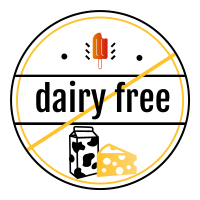
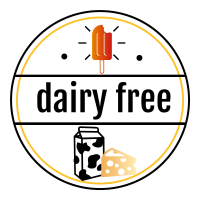
replaced two images and changed the favorite recipe image rendering

Changed region(s): [[0.12, 0.27, 0.9, 0.9], [0.39, 0.12, 0.63, 0.39], [0.57, 0.12, 0.6, 0.15]]

diff --git a/src/components/RecipeDetail.js b/src/components/RecipeDetail.js
@@ -3,6 +3,14 @@ import { connect } from "react-redux";
 import { fetchingUserClickedRecipe, favoritingRecipe, unfavoritingUserRecipe } from "../redux/actions";
 import { OverlayTrigger, Button, Tooltip } from "react-bootstrap";
 import { AiOutlineHeart, AiFillHeart } from 'react-icons/ai'
+import vegetarian from '../assets/images/vegetarian.png'
+import nonVegetarian from '../assets/images/nonVegetarian.png'
+import vegan from '../assets/images/vegan.png'
+import nonVegan from '../assets/images/nonVegan.png'
+import dairyFree from '../assets/images/dairyFree.png'
+import glutenFree from '../assets/images/glutenFree.png'
+// import lowFodmap from '../assets/images/lowFodmap.png'
+
 
 class RecipeDetail extends React.Component {
   componentDidMount() {
@@ -17,7 +25,6 @@ class RecipeDetail extends React.Component {
       this.props.favoriteRecipe(this.props.clickedRecipe[0], this.props.currentUser)
     } else {
       event.target.classList.replace("btn-danger", "btn-success")
-      debugger
       event.target.innerText = "Favorite Me <3" 
       this.props.unfavoriteRecipe(this.props.clickedRecipe[0], this.props.currentUser)
     }
@@ -33,7 +40,7 @@ class RecipeDetail extends React.Component {
 
 
   render() {
-    // debugger
+   // debugger
     // let {vegetarian, vegan, glutenFree, dairyFree, weightWatcherSmartPoints, lowFodmap, preparationMinutes, cookingMinutes, sourceUrl, spoonacularSourceUrl, spoonacularScore, creditsText, sourceName, title, servings, readyInMinutes, image, summary, instructions } = this.props.clickedRecipe[0]
     return (
       <div className="container card mx-auto">
@@ -64,13 +71,13 @@ class RecipeDetail extends React.Component {
               {this.props.clickedRecipe[0].preparationMinutes}
               <p>Cooking Minutes: {this.props.clickedRecipe[0].cookingMinutes}</p>
             </div>
-            // wite func that set innerHTML to this div
-            <div>{this.props.clickedRecipe[0].summary}</div>{" "}
-            <div> vegetarian ? {this.props.clickedRecipe[0].vegetarian ? "true" : "false"} </div>
-            <div> vegan ? {this.props.clickedRecipe[0].vegan} </div>
-            <div> glutenFree ? {this.props.clickedRecipe[0].glutenFree} </div>
-            <div> dairyFree ? {this.props.clickedRecipe[0].dairyFree} </div>
-            <div> lowFodmap ? {this.props.clickedRecipe[0].lowFodmap} </div>
+
+            <div dangerouslySetInnerHTML={{ __html: this.props.clickedRecipe[0].summary }}></div>
+            <div> vegetarian ? {this.props.clickedRecipe[0].vegetarian ? <img src={vegetarian} /> : <img src={nonVegetarian} />} </div>
+            <div> vegan ? {this.props.clickedRecipe[0].vegan ? <img src={vegan} /> : <img src={nonVegan} />} </div>
+            <div> glutenFree ? {this.props.clickedRecipe[0].glutenFree ? <img src={glutenFree} /> : null} </div>
+            <div> dairyFree ? {this.props.clickedRecipe[0].dairyFree ? <img src={dairyFree} /> : null} </div>
+            {/* <div> lowFodmap ? {this.props.clickedRecipe[0].lowFodmap ? <img src={lowFodmap} /> : null}} </div> */}
             <div> weight watchers points ?{this.props.clickedRecipe[0].weightWatcherSmartPoints} </div>
             
             <div> servings ? {this.props.clickedRecipe[0].servings} </div>

diff --git a/src/App.css b/src/App.css
@@ -87,7 +87,7 @@ input[type=text], input[type=password] {
 
 .left-column {
   float: left;
-  width: 50%;
+  width: 60%;
   margin: 2%;
   overflow: hidden;
 }
@@ -108,12 +108,13 @@ input[type=text], input[type=password] {
 }
 
 .recipe-card-image {
-
+  width: 100%;
 }
 
 .right-column {
   float: right;
-  width: 40%;
+  width: 30%;
+  margin: 2%;
 }
 
 .footer {

diff --git a/src/components/Home.js b/src/components/Home.js
@@ -60,6 +60,8 @@ const Home = (props) => {
                 />
              
             </Switch> 
+            Nourish your creative frugal side
+            Discover Recipes
             < Footer />
         </div>
     )
